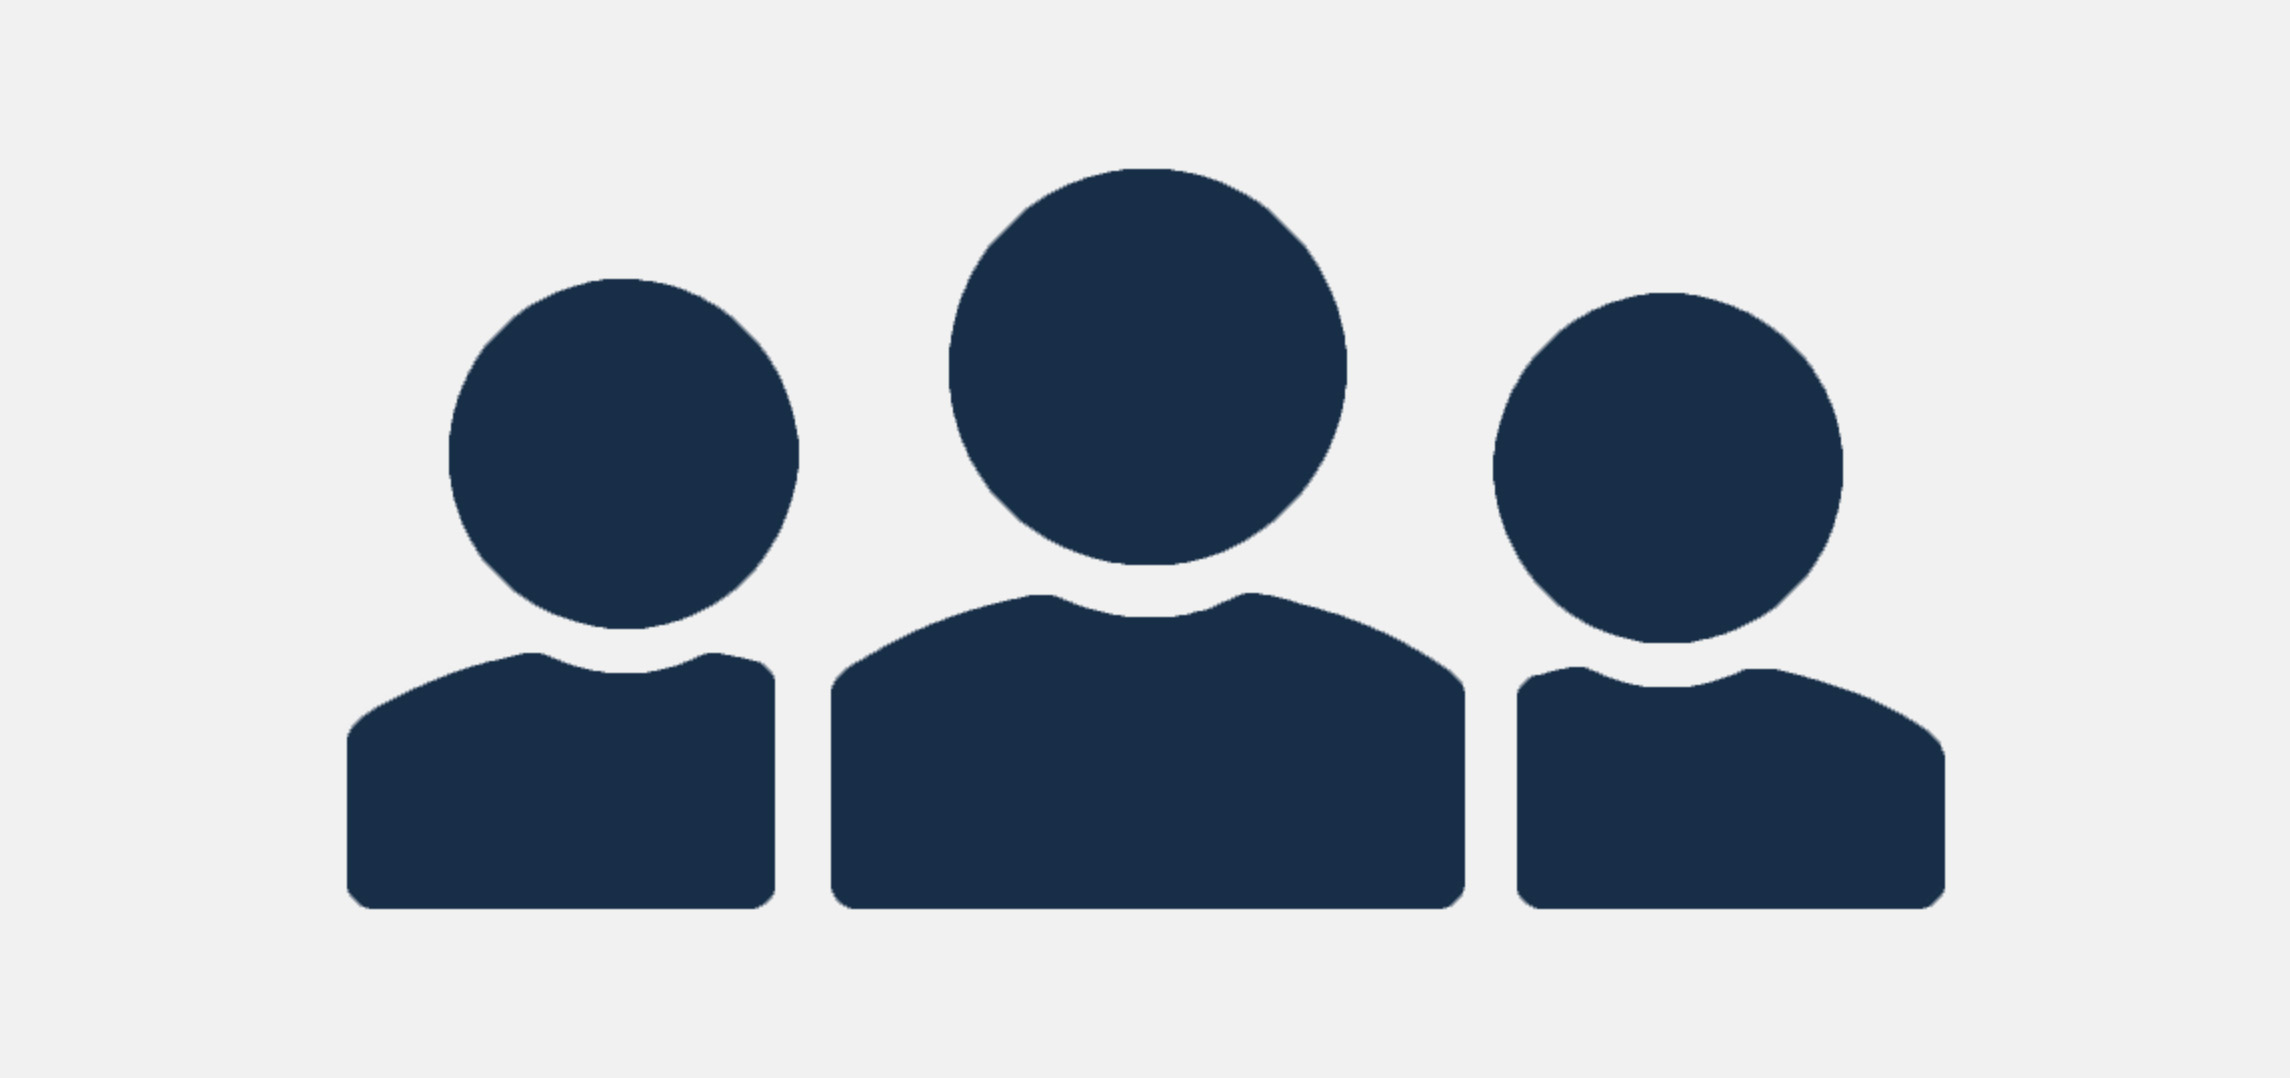
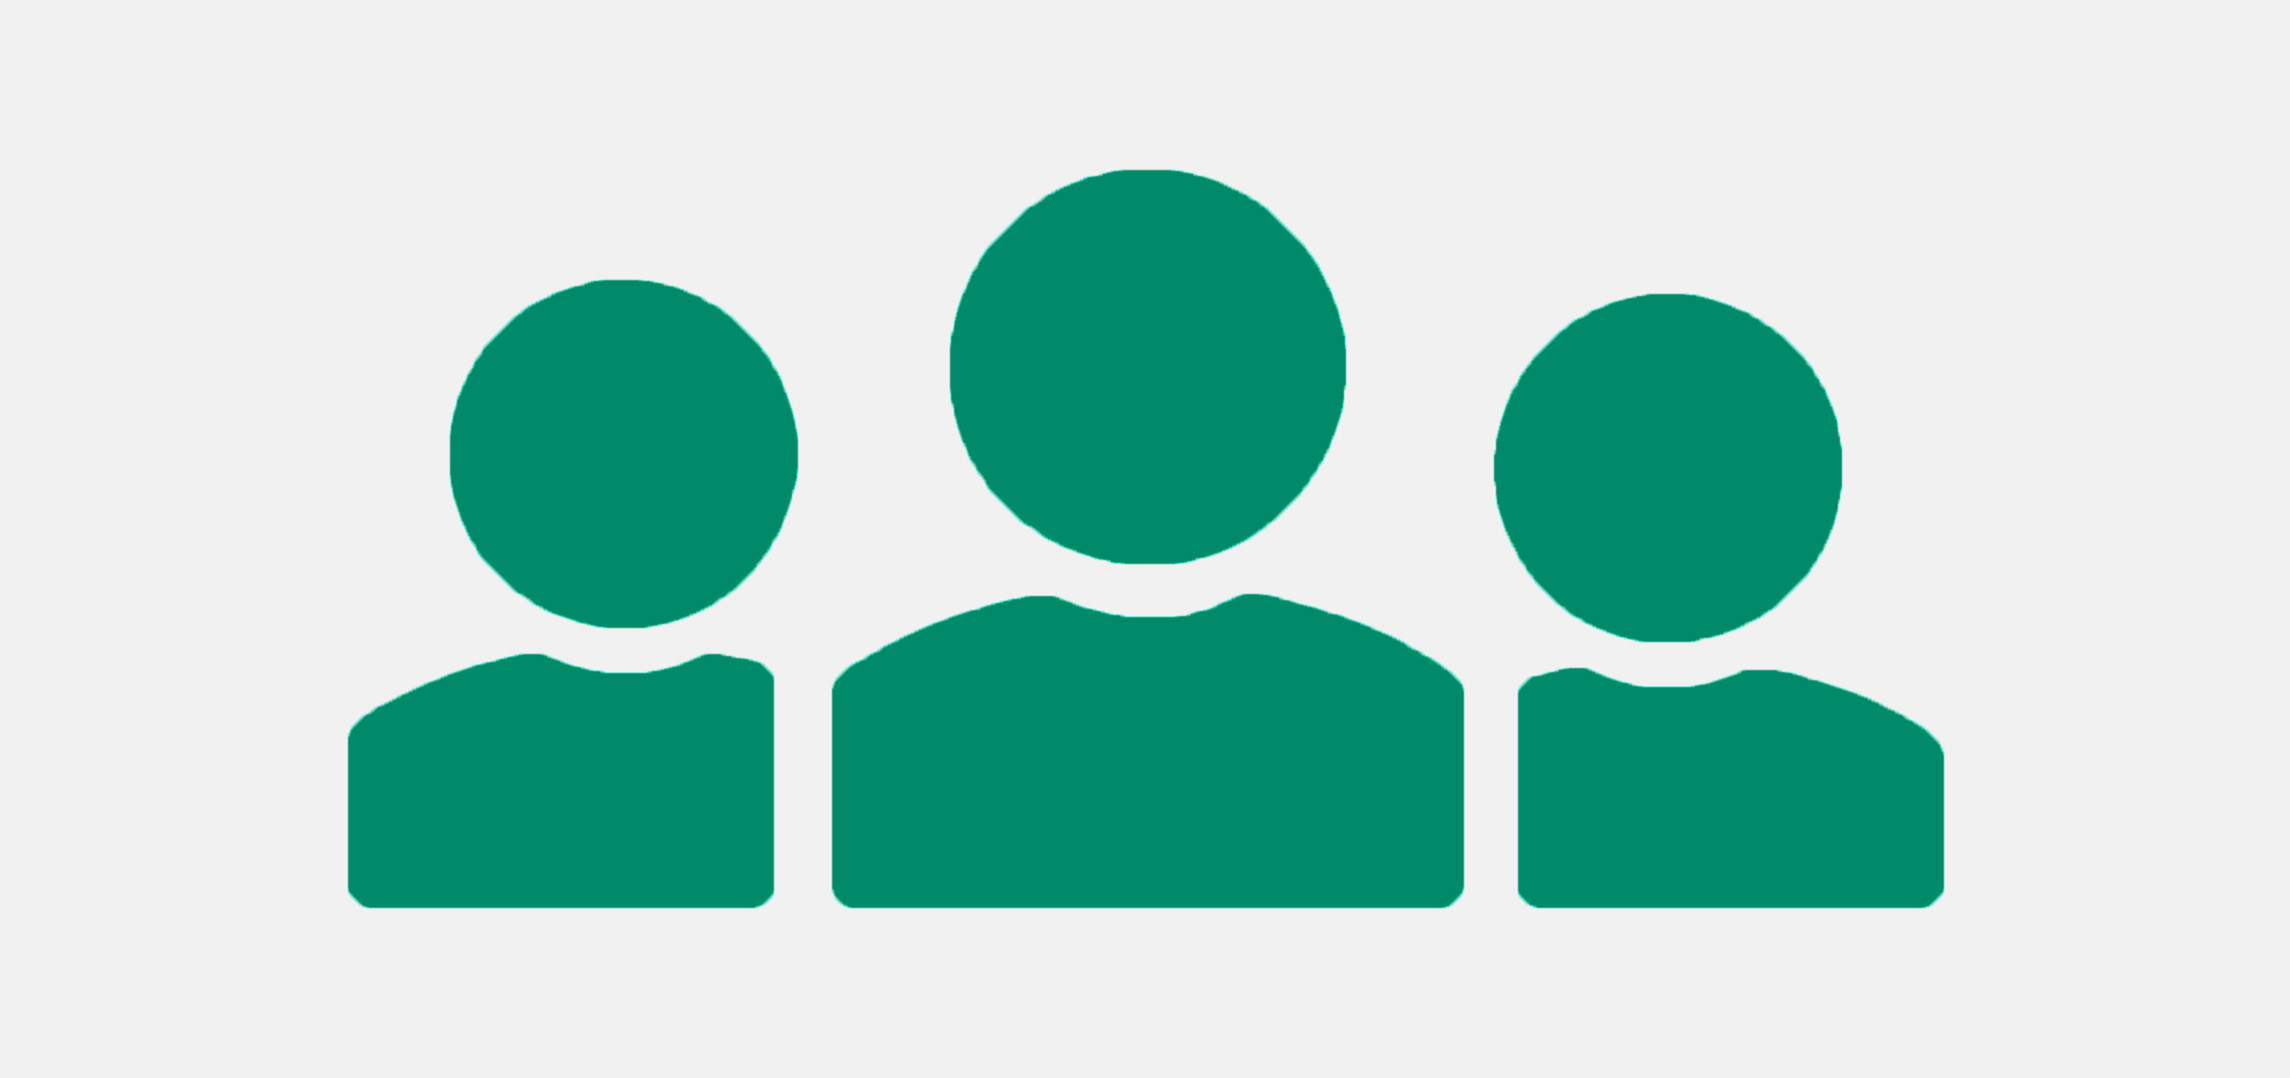
greem update
h

Changed region(s): [[0.124, 0.1531, 0.8681, 0.8571]]

diff --git a/src/Appa.js b/src/Appa.js
@@ -70,13 +70,13 @@ function Appa(){
 </footer>
         
         </Router>
-            <CookieConsent debug={true}
+            {/* <CookieConsent debug={true}
             location="bottom"
             style={{background: '#141c25', textAlign: 'left', height: '150px'}}
             buttonStyle={{color: 'black', background: 'white', fontSize: '20px'}}
             buttonText="OKE IK GA AKKOORD!"
             
-            >Wij maken gebruik van cookies om uw website bezoek zo prettig mogelijk te maken. Meer weten over de cookies die wij gebruiken? Lees dan ons <a href="/privacy-policy">privacy beleid.</a></CookieConsent>
+            >Wij maken gebruik van cookies om uw website bezoek zo prettig mogelijk te maken. Meer weten over de cookies die wij gebruiken? Lees dan ons <a href="/privacy-policy">privacy beleid.</a></CookieConsent> */}
         </div>
     );
 }

diff --git a/src/pages/styles/styleSectionfour.css b/src/pages/styles/styleSectionfour.css
@@ -14,14 +14,14 @@
 .profielafbeeldingvlak{
     width: 100%;
     height: 200px;
-    background-color: rgb(23, 46, 71);
+    background-color: #149975;
     border-radius: 15px;
     text-align: center;
 }
 .profielafbeeldingvlak2{
     width: 100%;
     height: 200px;
-    background-color: rgb(23, 46, 71);
+    background-color: #149975;
     border-radius: 15px;
     text-align: center;
     display: none;
@@ -101,7 +101,7 @@
     .profielafbeeldingvlak2{
         width: 100%;
         height: 200px;
-        background-color: #172e47;
+        background-color: #149975;
         border-radius: 15px;
         text-align: center;
         display: flex;

diff --git a/src/components/navbar.js b/src/components/navbar.js
@@ -6,6 +6,7 @@ import React, { useState } from "react";
 import i18n from "i18next";
 import { withTranslation, WithTranslation } from 'react-i18next';
 import {Form} from 'react-bootstrap';
+import logoddd from "../images/logod.jpg";
 
 function Navbar(){
     
@@ -34,7 +35,7 @@ function Navbar(){
             <br/><br/><br/>
     <header>
         <a href="/">
-            <h3>Logo</h3>
+            <img className="logoddd" src={logoddd}></img>
         </a>
         <nav ref={navRef}> 
             <a href="#sectionone" onClick={showNavbar}>{t('navbar.1')}</a>

diff --git a/src/components/navbar.css b/src/components/navbar.css
@@ -9,8 +9,8 @@
 
 :root{
     --mainColor: #ffffff;
-    --mainColorLight: #172e47;
-    --secondaryColor: #172e47;
+    --mainColorLight: #149975;
+    --secondaryColor: #149975;
     --textColor: rgb(0, 0, 0);
 }
 a h3{
@@ -47,7 +47,7 @@ nav a{
     text-decoration: none;
 }
 nav a:hover{
-    color:#172e47;
+    color:#149975;
 }
 
 header .nav-btn{
@@ -99,4 +99,7 @@ header .nav-btn{
 nav{
     width: 90%;
     text-align: center;
+}
+.logoddd{
+    width: 80px;
 }

diff --git a/src/style.css b/src/style.css
@@ -45,7 +45,7 @@ iframe{
 }
 .site-footer
 {
-  background-color: #172e47;
+  background-color: #149975;
   padding:45px 0 20px;
   font-size:15px;
   line-height:24px;
@@ -111,7 +111,7 @@ iframe{
   margin-left:6px;
   margin-right:0;
   border-radius:100%;
-  background-color:#172e47;
+  background-color:#149975
 }
 .copyright-text
 {

diff --git a/src/App.js b/src/App.js
@@ -23,9 +23,7 @@ function App() {
       
       <a href="#Sectionsix">
         
-      <div className="afspraak-maken">
-        <p className="reclame-text">{t('afspraakMaken.1')}</p>
-      </div>
+
       </a>
       <Home/>
       <div data-aos="fade-in" data-aos-duration="10000" id="sectionone"><Sectionone/></div>

diff --git a/src/pages/styles/styleSectionthree.css b/src/pages/styles/styleSectionthree.css
@@ -1,11 +1,11 @@
 .sectionthree{
     height: 80vh;
-    background-color: rgb(241, 241, 241);
+    background-color: #f1f1f1;
 }
 
 .seconddiv-sectionthree{
     height: 80vh;
-    background-color: #172e47;
+    background-color: #149975;
     opacity: 1;
 }
 .service{

diff --git a/src/components/footer.css b/src/components/footer.css
@@ -1,6 +1,6 @@
 .footer{
     height: 200px;
-    background-color: rgb(23, 46, 71);
+    background-color: #149975;
 }
 
 .vaklinks{
